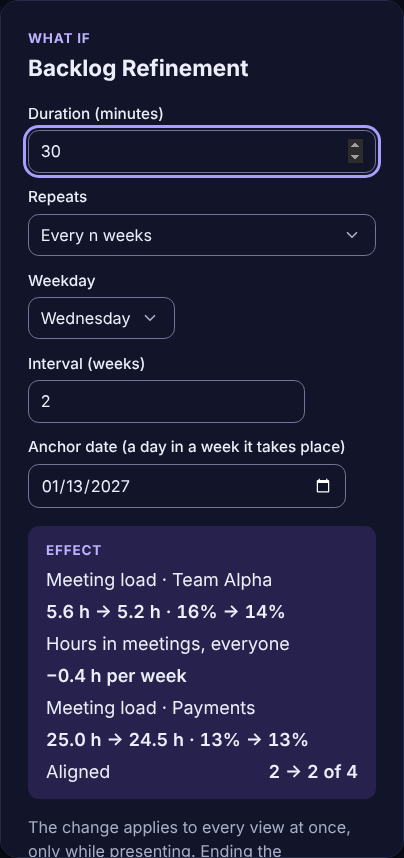
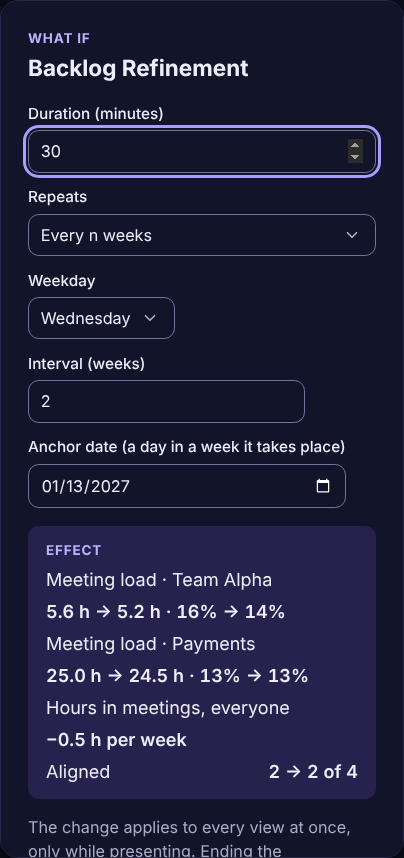
Apply review nits for the team what-if line (#340)
- With a team line, the area's line follows it directly; the hours and
  cost rows come after the area's line.
- The hours change is computed from the rounded figures, so
  "25.0 h → 24.5 h" reads −0.5 h.
- Share the load text and its non-breaking unit between box and banner.
- German help wording, English code comments, a phone shot of the
  meeting form's one-line effect.

Changed region(s): [[0.1188, 0.7273, 0.7723, 0.8788], [0.7426, 0.7879, 0.7723, 0.8182]]

diff --git a/src/ui/components/WhatIfEffect.svelte b/src/ui/components/WhatIfEffect.svelte
@@ -1,13 +1,37 @@
-<script lang="ts">
+<script lang="ts" module>
   import type { Effect } from '../../core/whatIf';
   import { formatEuro, formatNumber, formatPercent, locale, translate as t } from '../../i18n';
 
+  type Translate = (key: string, params?: Record<string, string | number>) => string;
+
+  /** "5.6 h → 5.2 h · 16 % → 14 %": a meeting load with its hours; "24.5 h" never wraps. */
+  export function loadValue(
+    tr: Translate,
+    loc: Parameters<typeof formatNumber>[0],
+    b: Effect,
+    a: Effect,
+  ): string {
+    return tr('whatif.effect.loadValue', {
+      fromHours: formatNumber(loc, b.hours, 1),
+      toHours: formatNumber(loc, a.hours, 1),
+      from: formatPercent(loc, b.share),
+      to: formatPercent(loc, a.share),
+    }).replace(/(\d) h/g, '$1\u00a0h');
+  }
+
+  /** The change in hours as the rounded figures show it, so "25.0 h → 24.5 h" reads −0.5 h. */
+  export const hoursDelta = (b: Effect, a: Effect) =>
+    Math.round(a.hours * 10) / 10 - Math.round(b.hours * 10) / 10;
+</script>
+
+<script lang="ts">
   /**
-   * The "Wirkung" box: what a change does to hours, cost, Terminlast and teams in step, measured
+   * The effect box: what a change does to hours, cost, meeting load and teams in step, measured
    * in `scopeName`. `error` replaces the numbers; `note` adds one line, e.g. the meetings that move.
    * `compact` shows the numbers as one line below 600 px (the meeting form on a phone).
    * `live` false drops the live region, where the box follows every keystroke of a form.
-   * `team`: a team in an area, whose own Terminlast comes first, before the area's (#340).
+   * `team`: a team in an area; its own meeting load comes first, then the area's (#340). The
+   * area's hours and cost follow the area's line then, so they are not read as the team's.
    */
   let {
     before,
@@ -34,18 +58,11 @@
   const hours = (n: number) => formatNumber($locale, n, 1);
   const euro = (n: number) => formatEuro($locale, n);
   const pct = (n: number) => formatPercent($locale, n);
-  /** "5.6 h → 5.2 h · 16 % → 14 %": the Terminlast with its hours; "24.5 h" never wraps. */
-  const load = (b: Effect, a: Effect) =>
-    $t('whatif.effect.loadValue', {
-      fromHours: hours(b.hours),
-      toHours: hours(a.hours),
-      from: pct(b.share),
-      to: pct(a.share),
-    }).replace(/(\d) h/g, '$1\u00a0h');
-  /** The compact one-line form: hours, cost per week (with a rate) and Terminlast. */
+  const load = (b: Effect, a: Effect) => loadValue($t, $locale, b, a);
+  /** The compact one-line form: hours, cost per week (with a rate) and meeting load. */
   const line = (b: Effect, a: Effect) =>
     $t(b.cost && a.cost ? 'whatif.line.cost' : 'whatif.line', {
-      hours: signed(a.hours - b.hours, hours),
+      hours: signed(hoursDelta(b, a), hours),
       cost: b.cost && a.cost ? signed(a.cost.perWeek - b.cost.perWeek, euro) : '',
       // A team in an area names its own load: that is what changed (#340).
       name: team?.name ?? scopeName,
@@ -67,17 +84,21 @@
         {line(before, after)}
       </p>
     {/if}
+    {#snippet share(name: string, b: Effect, a: Effect)}
+      <div>
+        <dt>{$t('whatif.effect.share', { name })}</dt>
+        <dd>{load(b, a)}</dd>
+      </div>
+    {/snippet}
     <dl class:compact>
       {#if team}
-        <div>
-          <dt>{$t('whatif.effect.share', { name: team.name })}</dt>
-          <dd>{load(team.before, team.after)}</dd>
-        </div>
+        {@render share(team.name, team.before, team.after)}
+        {@render share(scopeName, before, after)}
       {/if}
       <div>
         <dt>{$t('whatif.effect.hours')}</dt>
-        <dd class:up={after.hours - before.hours > 0.004}>
-          {$t('whatif.perWeek.hours', { value: signed(after.hours - before.hours, hours) })}
+        <dd class:up={hoursDelta(before, after) > 0.004}>
+          {$t('whatif.perWeek.hours', { value: signed(hoursDelta(before, after), hours) })}
         </dd>
       </div>
       {#if before.cost && after.cost}
@@ -91,10 +112,9 @@
           </dd>
         </div>
       {/if}
-      <div>
-        <dt>{$t('whatif.effect.share', { name: scopeName })}</dt>
-        <dd>{load(before, after)}</dd>
-      </div>
+      {#if !team}
+        {@render share(scopeName, before, after)}
+      {/if}
       {#if before.inStep && after.inStep}
         <div>
           <dt>{$t('whatif.effect.inStep')}</dt>

diff --git a/src/ui/components/WhatIfBar.svelte b/src/ui/components/WhatIfBar.svelte
@@ -1,9 +1,10 @@
 <script lang="ts">
   import { workspaceIndex } from '../../core/views';
   import { countChanges, effectScope, whatIfEffect, type Effect } from '../../core/whatIf';
-  import { formatEuro, formatNumber, formatPercent, locale, translate as t } from '../../i18n';
+  import { formatEuro, locale, translate as t } from '../../i18n';
   import { resetWhatIf } from '../state/present';
   import { activeTeamId, index, workspace } from '../state/workspace';
+  import { loadValue } from './WhatIfEffect.svelte';
 
   /** Above every view while presenting: what the what-ifs changed so far, with a reset (M1). */
   const { presentBase } = workspace;
@@ -35,17 +36,9 @@
     const name = $workspace.teams.find((x) => x.id === id)?.name ?? '';
     return b && a ? { name, before: b, after: a } : undefined;
   });
-  const pct = (n: number) => formatPercent($locale, n);
-  const hours = (n: number) => formatNumber($locale, n, 1);
-  /** "Meeting load Team Alpha: 5.6 h → 5.2 h · 16 % → 14 %"; "24.5 h" never wraps. */
+  /** "Meeting load Team Alpha: 5.6 h → 5.2 h · 16 % → 14 %" */
   const load = (name: string, b: Effect, a: Effect) =>
-    $t('whatif.bar.share', {
-      name,
-      fromHours: hours(b.hours),
-      toHours: hours(a.hours),
-      from: pct(b.share),
-      to: pct(a.share),
-    }).replace(/(\d) h/g, '$1\u00a0h');
+    $t('whatif.bar.share', { name, value: loadValue($t, $locale, b, a) });
   const signedEuro = (n: number) =>
     (n > 0.004 ? '+' : n < -0.004 ? '−' : '±') + formatEuro($locale, Math.abs(n));
 </script>

diff --git a/tests/e2e/present.spec.ts b/tests/e2e/present.spec.ts
@@ -150,6 +150,10 @@ test('a what-if in a team of an area shows the team first, then the area (#340)'
     'Meeting load · Team Alpha 5.6 h → 5.2 h · 16% → 14%',
     'Meeting load · Payments 25.0 h → 24.5 h · 13% → 13%',
   ]);
+  // The area's hours follow its line and match its rounded figures.
+  await expect(sheet.locator('.effect dl > div').nth(2)).toHaveText(
+    'Hours in meetings, everyone −0.5 h per week',
+  );
   await sheet.getByRole('button', { name: 'Apply' }).click();
   await expect(sheet).toBeHidden();
   // The banner keeps the team's hours, then the area's line.
